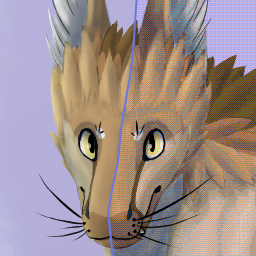
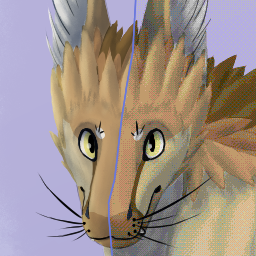
added OkImage.printImgError()

Changed region(s): [[0.4062, 0.0, 1.0, 1.0]]

diff --git a/import/PalettizeImage.py b/import/PalettizeImage.py
@@ -221,7 +221,38 @@ class OkImage:
 
 		self.pixels_output[...,:3] = pixels
 
+	def printImgError(self):
+		quant_delta = self.pixels_output - self.pixels
+		dl = quant_delta[:,0]
+		da = quant_delta[:,1]
+		db = quant_delta[:,2]
+		dalpha = quant_delta[:,3]
+  
+		#_rmsq = root mean square
+		lum_rmsq 	= np.sqrt( np.mean(dl**2) )
+		chroma_rmsq= np.sqrt( np.mean(da**2+db**2) )
+		#alpha_rmsq = np.sqrt( np.mean(dalpha**2) )
+		total_rmsq = np.sqrt( np.mean(dl**2 + da**2 + db**2) )
 
+		print("[L,chroma] rmsq: " + 
+			str(round(lum_rmsq,4)) + ", " + 
+			str(round(chroma_rmsq,4))
+		)
+		#print("Alpha rmsq: " + str(round(alpha_rmsq,4)) + ", " )
+		print("Total rmsq: " 	+ str(round(total_rmsq	,8)))
+
+		lum_bias = np.mean(dl)
+		a_bias = np.mean(da)
+		b_bias = np.mean(db)
+		alpha_bias = np.mean(dalpha)
+		total_bias = np.linalg.norm( np.mean( quant_delta[:,:3] ) ) #vector length of mean delta
+		print("[L,a,b] bias: " + 
+			str(round(lum_bias,4)) + ", " + 
+			str(round(a_bias,4)) + ", " + 
+			str(round(b_bias,4))
+		)
+		print("Alpha bias: " + str(round(alpha_bias,4)) + ", " )
+		print("Total bias: " + str(round(total_bias,8)))
 
 #Map unique colors to palette, but avoid collapsing similar colors
 #Return unique_palettized[len(unique_list.color)] = [l,a,b,alpha]
@@ -326,6 +357,9 @@ def Palettize_preset(preset: ConvertPreset):
 
 	image_ok.saveImage(preset.output)
 	print("Saved image "+preset.output) 
+
+	print("\nColor error")
+	image_ok.printImgError()
 
 
 ## Palettize Image Parser ##

diff --git a/palette_generator.py b/palette_generator.py
@@ -27,7 +27,7 @@ def run_PaletteGenerator(active_preset, palette_file, histogram_file):
 if __name__ == '__main__':
 	preset_pal64 = PalettePreset(
 			sample_method=2,
-			reserve_transparent=0,
+			reserve_transparent=1,
 			hex_pre_colors = None, #[["abcdef",True],["abc123ff",False]],
 			img_pre_colors = None,#"./data/pre_palette.png",
 			img_fixed_mask = None, #"./data/pre_palette_mask.png",
